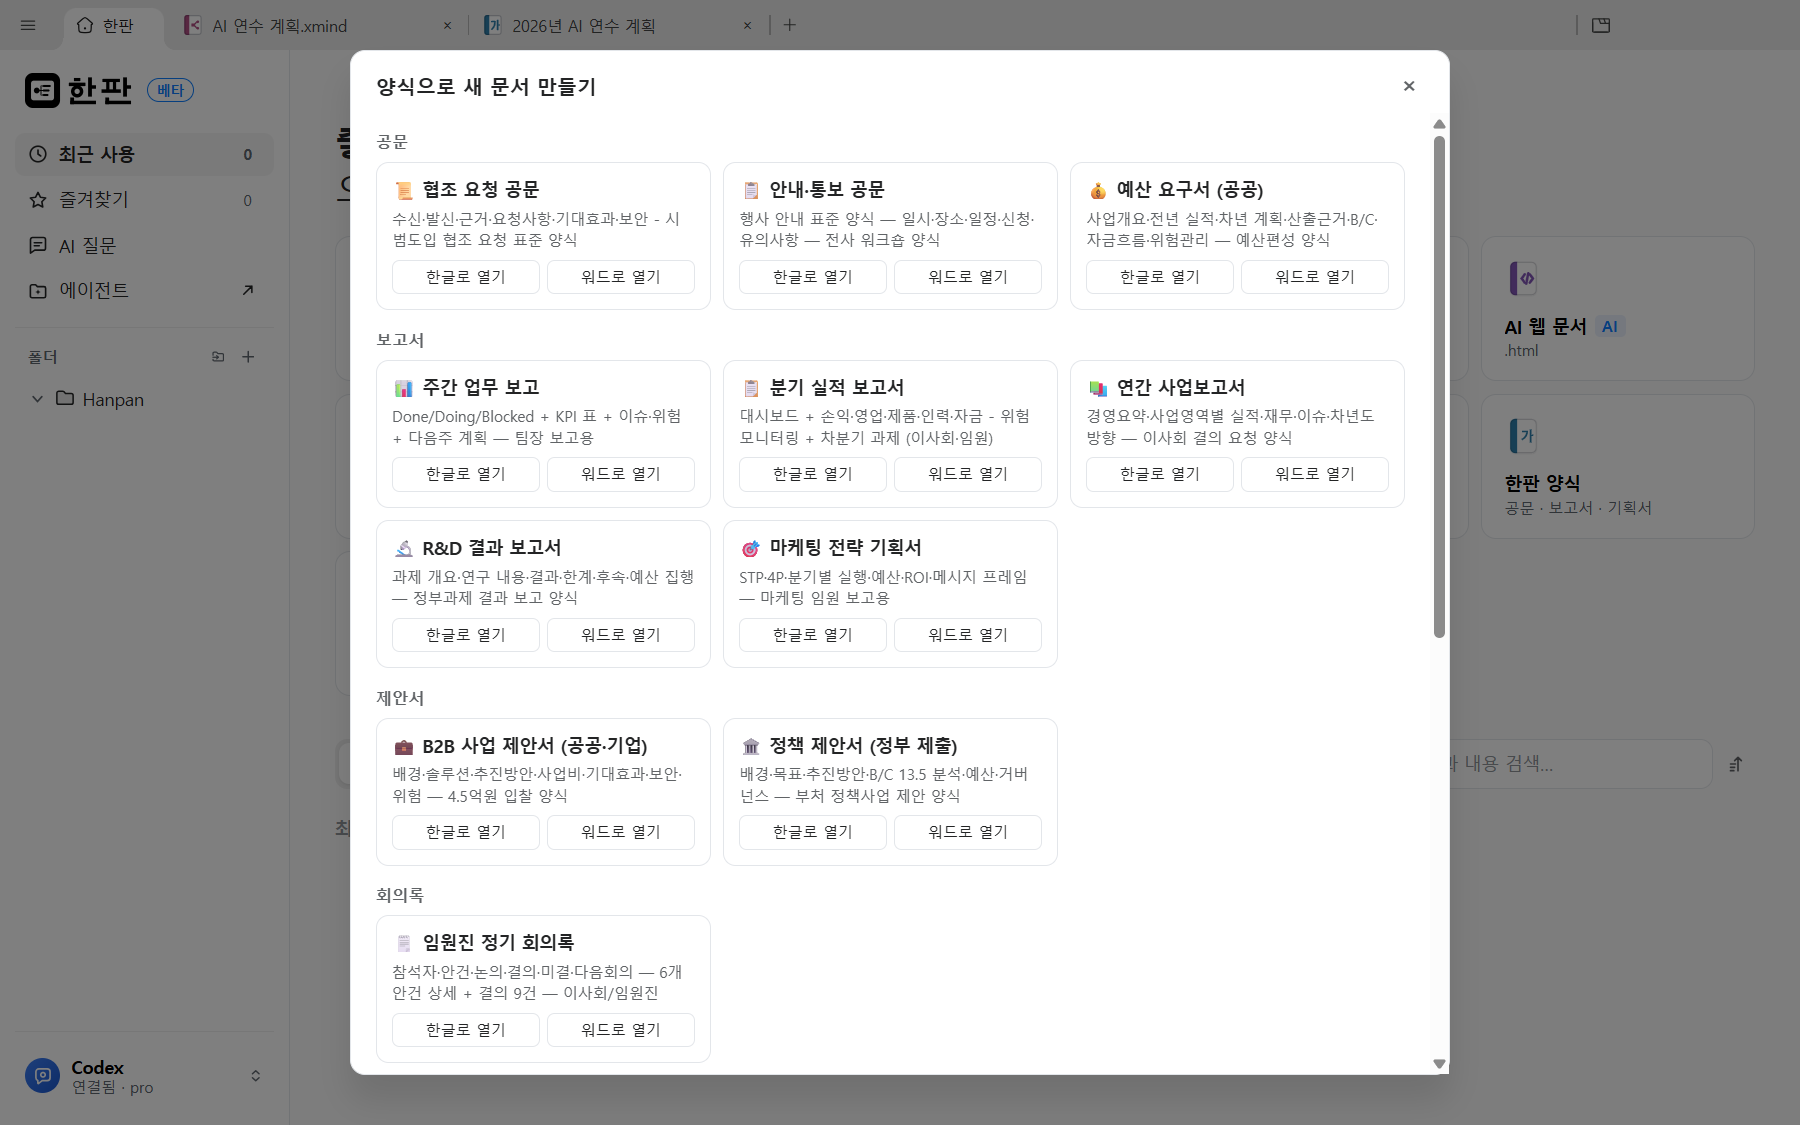
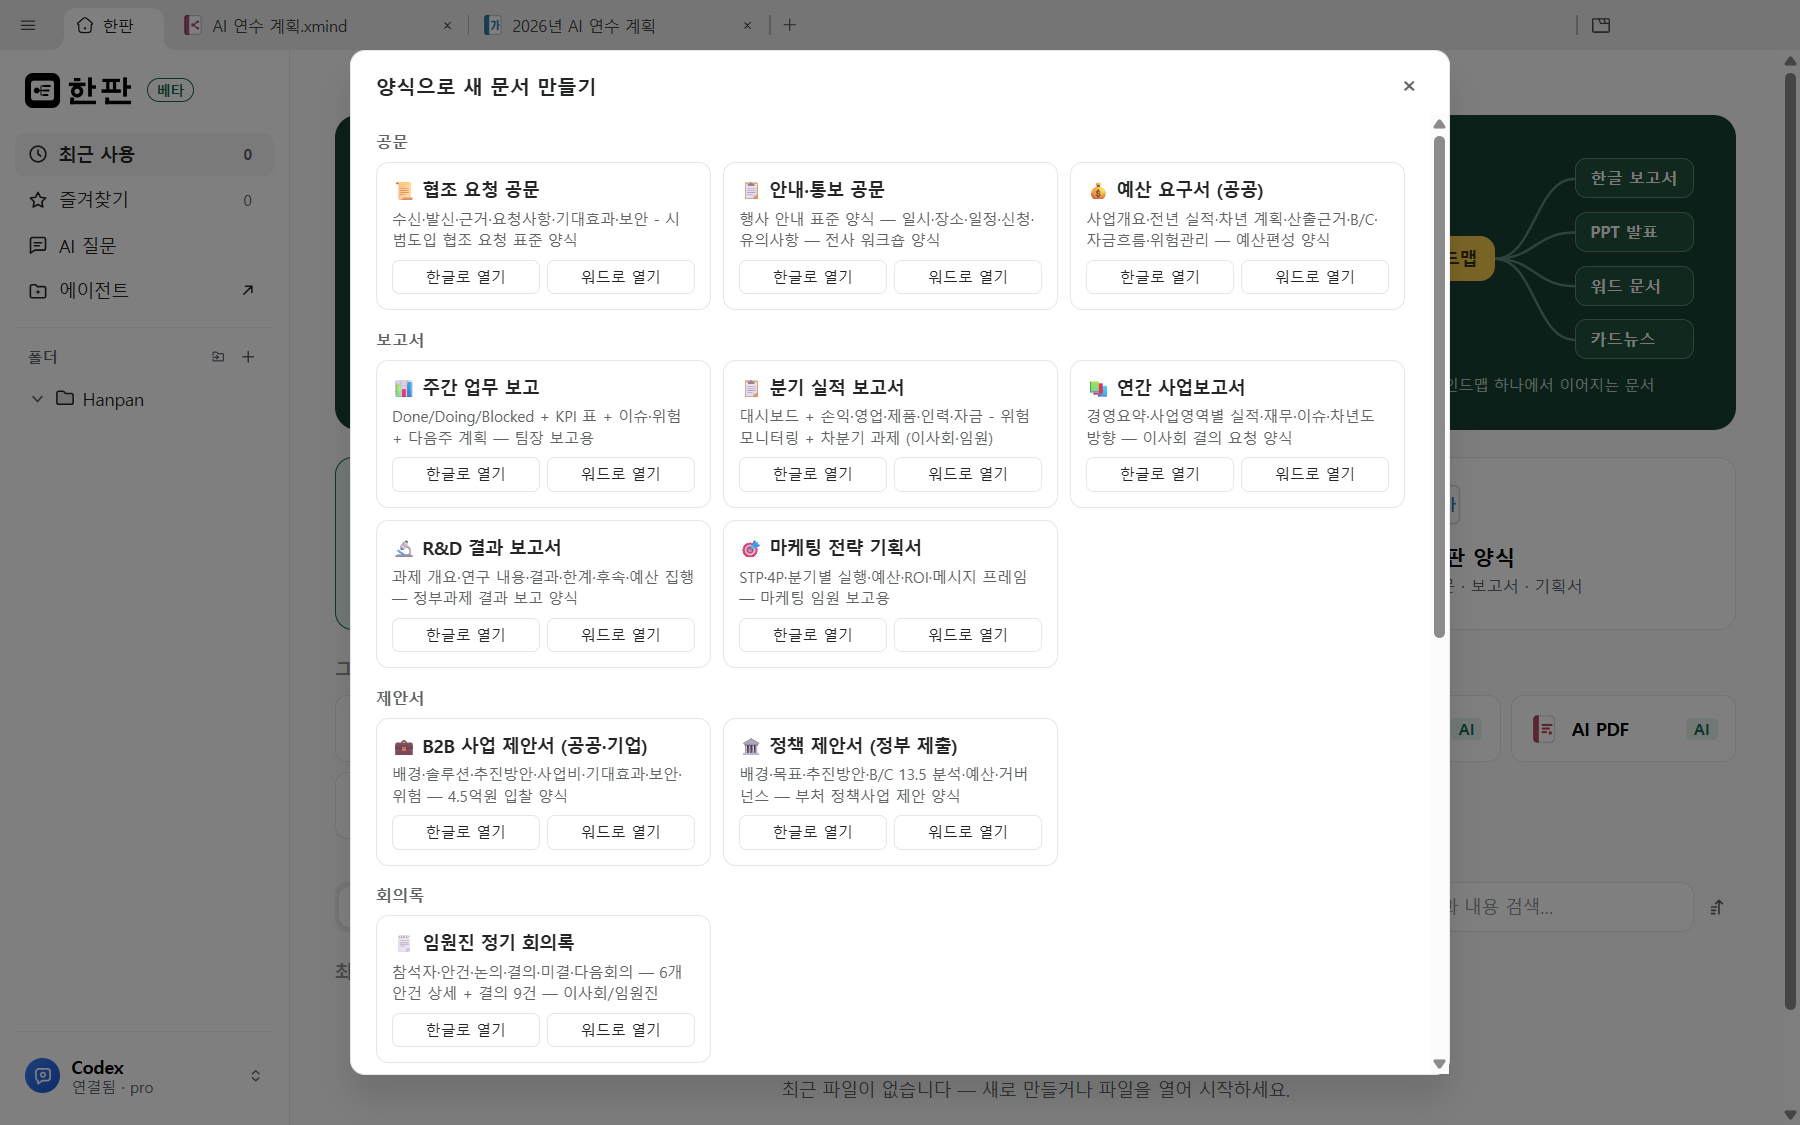
docs(site): Hanpan green, the new Home and the 0.13 updates on the intro page
The intro page says 생각은 마인드맵으로 and calls the map a mind map
throughout, takes Hanpan's board green, shows the new Home and the ten
slide styles, and lists what each version changed. The manual and site
screenshots are retaken with the new wording.

diff --git a/site/index.html b/site/index.html
@@ -3,9 +3,9 @@
 <head>
   <meta charset="utf-8" />
   <meta name="viewport" content="width=device-width, initial-scale=1" />
-  <title>한판 — 생각은 지도로, 문서는 한 판에</title>
+  <title>한판 — 생각은 마인드맵으로, 문서는 한 판에</title>
   <meta name="description" content="한판은 마인드맵을 한글 보고서·PPT·워드로 보내 같은 창에서 이어 쓰는 무료 데스크톱 오피스입니다. AI는 내 PC에 깔린 AI를 먼저 씁니다. Made by TenAI." />
-  <meta property="og:title" content="한판 — 생각은 지도로, 문서는 한 판에" />
+  <meta property="og:title" content="한판 — 생각은 마인드맵으로, 문서는 한 판에" />
   <meta property="og:description" content="마인드맵 하나로 한글 보고서·PPT·워드까지. 내 PC AI 우선. Made by TenAI." />
   <meta property="og:image" content="images/04-hwp-report.png" />
   <link rel="icon" href="images/icon.svg" type="image/svg+xml" />
@@ -14,15 +14,15 @@
   <link href="https://fonts.googleapis.com/css2?family=IBM+Plex+Sans+KR:wght@400;500;700&family=Nanum+Myeongjo:wght@400;700;800&display=swap" rel="stylesheet" />
   <style>
     :root {
-      --board: #1e3a5f;
-      --board-deep: #162c49;
-      --node: #ff8a3d;
+      --board: #183f33;
+      --board-deep: #123027;
+      --node: #f2c94c;
       --paper: #ffffff;
-      --chalk: #dce3ec;
-      --mist: #f3f6fa;
-      --ink: #14202e;
-      --ink-soft: #4a5a6e;
-      --line-on-board: rgb(220 227 236 / 45%);
+      --chalk: #dfe9e3;
+      --mist: #f1f6f3;
+      --ink: #13201a;
+      --ink-soft: #4a5b53;
+      --line-on-board: rgb(223 233 227 / 45%);
       --radius: 14px;
     }
     * { box-sizing: border-box; }
@@ -145,6 +145,13 @@
     }
     .steps h3 { margin: 0 0 8px; font-size: 20px; }
     .steps p { margin: 0; color: var(--ink-soft); }
+    .news { display: grid; gap: 0; padding: 0; margin: 0; list-style: none; border-top: 1px solid var(--chalk); }
+    .news li { display: grid; grid-template-columns: 7em 9em 1fr; gap: 16px; align-items: baseline; padding: 20px 0; border-bottom: 1px solid var(--chalk); }
+    .news-ver { font-weight: 800; font-size: 18px; color: var(--board); }
+    .news-date { color: var(--ink-soft); font-size: 15px; }
+    .news p { margin: 0; }
+    .news-all { margin: 24px 0 0; }
+    @media (max-width: 720px) { .news li { grid-template-columns: auto 1fr; } .news p { grid-column: 1 / -1; } }
     .note { margin-top: 36px; padding: 18px 22px; border-left: 4px solid var(--node); background: var(--paper); color: var(--ink-soft); border-radius: 0 10px 10px 0; }
 
     table { width: 100%; border-collapse: collapse; font-size: 16px; }
@@ -193,6 +200,7 @@
       <a class="brand" href="#"><img src="images/icon.svg" alt="" />한판</a>
       <nav aria-label="페이지 안내">
         <a href="#features">기능</a>
+        <a href="#news">업데이트</a>
         <a href="#install">설치</a>
         <a href="#local-ai">내 PC AI</a>
         <a href="https://github.com/SamulChung/hanpan">GitHub</a>
@@ -204,14 +212,14 @@
     <section class="hero" aria-labelledby="hero-title">
       <div class="wrap">
         <div>
-          <h1 id="hero-title">생각은 지도로,<br />문서는 한 판에.</h1>
-          <p class="lead">마인드맵으로 정리한 생각을 한글 보고서·PPT·워드로 보내 같은 창에서 이어 씁니다. 지도를 고치면 문서도, 문서를 고치면 지도도 맞춰집니다. AI는 내 PC에 깔린 AI를 먼저 씁니다.</p>
+          <h1 id="hero-title">생각은 마인드맵으로,<br />문서는 한 판에.</h1>
+          <p class="lead">마인드맵에 정리한 생각을 버튼 하나로 한글 보고서·PPT·워드로 보내 같은 창에서 이어 씁니다. 한쪽을 고치면 다른 쪽도 맞춰집니다. AI는 내 PC에 깔린 AI를 먼저 씁니다.</p>
           <div class="actions">
             <a class="btn download-link" href="https://github.com/SamulChung/hanpan/releases/latest">
               <svg viewBox="0 0 20 20" fill="none" stroke="currentColor" stroke-width="2" stroke-linecap="round" stroke-linejoin="round" aria-hidden="true"><path d="M10 3v10M5.5 8.5 10 13l4.5-4.5M4 16.5h12" /></svg>
               Windows용 내려받기
             </a>
-            <span class="meta">무료 · Windows 10/11 (64비트) · <span class="version">v0.12.8</span> · <a href="https://github.com/SamulChung/hanpan/releases">모든 버전</a></span>
+            <span class="meta">무료 · Windows 10/11 (64비트) · <span class="version">v0.13.2</span> · <a href="https://github.com/SamulChung/hanpan/releases">모든 버전</a></span>
           </div>
         </div>
 
@@ -254,12 +262,25 @@
 
         <article class="feature">
           <div class="copy">
+            <span class="tag">홈 화면</span>
+            <h3>주제만 적으면 마인드맵부터 시작</h3>
+            <p>홈 맨 위 시작판에 정리할 주제를 적고 <strong>마인드맵 만들기</strong>를 누르면, 그 주제를 가운데 둔 새 마인드맵이 바로 열립니다.</p>
+            <ul>
+              <li>카드도 일의 순서대로: 마인드맵 → AI 한글 → AI 파워포인트 → 한판 양식</li>
+              <li>워드, 엑셀, 디자인, PDF 도구는 아래 한 줄에 모아서</li>
+            </ul>
+          </div>
+          <div class="shot"><img src="images/01-home.png" alt="시작판과 마인드맵 중심 카드가 있는 한판 홈 화면" loading="lazy" width="1800" height="1125" /></div>
+        </article>
+
+        <article class="feature">
+          <div class="copy">
             <span class="tag">마인드맵 → 문서</span>
-            <h3>지도 하나로 한글 보고서, PPT, 워드까지</h3>
+            <h3>마인드맵 하나로 한글 보고서, PPT, 워드까지</h3>
             <p>도구 줄의 보내기를 누르면 같은 창의 새 탭에 문서가 열립니다.</p>
             <ul>
               <li>개조식 보고서(□ ○ ―), 장 보고서(Ⅰ.), 공문 번호(1. 가. 1))</li>
-              <li>지도에 적은 말 그대로, 또는 AI가 개조식 문장으로 살 붙이기</li>
+              <li>마인드맵에 적은 말 그대로, 또는 AI가 개조식 문장으로 살 붙이기</li>
               <li>큰 가지 하나가 슬라이드 한 장, 메모는 발표자 메모로</li>
             </ul>
           </div>
@@ -268,11 +289,25 @@
 
         <article class="feature">
           <div class="copy">
-            <span class="tag">양방향 맞추기</span>
-            <h3>지도를 고치면 문서도, 문서를 고치면 지도도</h3>
-            <p>보낸 뒤에도 지도와 한글 문서는 연결되어 있습니다. 바뀐 곳을 미리 보여 주고, 양쪽에서 다르게 고친 곳은 직접 고릅니다. 문서에서 쓴 본문은 지켜집니다.</p>
+            <span class="tag">PPT 슬라이드 스타일</span>
+            <h3>발표 자료는 10가지 스타일 중에서 골라</h3>
+            <p>PPT로 보낼 때 스타일을 고르면 표지, 목차, 본문, 마무리 슬라이드까지 그 스타일로 꾸며집니다.</p>
+            <ul>
+              <li>스티브 잡스, 맥킨지, 토스, BCG, TED, 구글 머티리얼, 노션, 에어비앤비, 캔바 모던, 스타트업 피치덱</li>
+              <li>가지에 든 내용에 맞춰 카드, 매트릭스, 타임라인, 큰 숫자로 배치</li>
+              <li>만든 뒤에도 글자·색·도형을 PPT 탭에서 그대로 고칠 수 있음</li>
+            </ul>
           </div>
-          <div class="shot"><img src="images/05-sync.png" alt="지도와 연결된 문서에서 바뀐 곳을 보여 주는 맞추기 창" loading="lazy" width="1800" height="1075" /></div>
+          <div class="shot"><img src="images/09-slide-styles.png" alt="같은 마인드맵을 10가지 슬라이드 스타일로 만든 본문 슬라이드" loading="lazy" width="1792" height="424" /></div>
+        </article>
+
+        <article class="feature">
+          <div class="copy">
+            <span class="tag">양방향 맞추기</span>
+            <h3>마인드맵을 고치면 문서도, 문서를 고치면 마인드맵도</h3>
+            <p>보낸 뒤에도 마인드맵과 한글 문서는 연결되어 있습니다. 바뀐 곳을 미리 보여 주고, 양쪽에서 다르게 고친 곳은 직접 고릅니다. 문서에서 쓴 본문은 지켜집니다.</p>
+          </div>
+          <div class="shot"><img src="images/05-sync.png" alt="마인드맵과 연결된 문서에서 바뀐 곳을 보여 주는 맞추기 창" loading="lazy" width="1800" height="1075" /></div>
         </article>
 
         <article class="feature">
@@ -301,6 +336,36 @@
       </div>
     </section>
 
+    <section id="news" aria-labelledby="news-title">
+      <div class="wrap">
+        <h2 id="news-title">업데이트 소식</h2>
+        <p class="intro">설치한 한판은 새 버전이 나오면 알려 주고 스스로 업데이트합니다.</p>
+        <ol class="news">
+          <li>
+            <span class="news-ver">0.13.2</span>
+            <span class="news-date">2026. 10. 30.</span>
+            <p>홈 화면을 마인드맵 중심으로 새로 짰습니다. 시작판에 주제를 적으면 새 마인드맵이 열리고, 카드는 마인드맵·AI 한글·AI 파워포인트·한판 양식 순서입니다. 한판만의 칠판 초록 디자인을 입혔고, 앱 안의 '지도'라는 말을 모두 '마인드맵'으로 바꿨습니다.</p>
+          </li>
+          <li>
+            <span class="news-ver">0.13.1</span>
+            <span class="news-date">2026. 10. 30.</span>
+            <p>슬라이드 스타일 10가지를 새로 디자인했습니다. 한판이 만든 한글 문서에서 표 칸의 글자가 겹치던 문제와 그림이 글을 가리던 문제를 고쳤습니다.</p>
+          </li>
+          <li>
+            <span class="news-ver">0.13.0</span>
+            <span class="news-date">2026. 10. 30.</span>
+            <p>PPT로 보낼 때 슬라이드 스타일 10가지 가운데 하나를 고를 수 있습니다. 의견 보내기가 TenAI 팀 메일(ten@tenai.kr)로 바뀌었습니다.</p>
+          </li>
+          <li>
+            <span class="news-ver">0.12.8</span>
+            <span class="news-date">2026. 10. 30.</span>
+            <p>첫 공개 버전입니다. 마인드맵을 한글·PPT·워드로 보내기, 양방향 맞추기, 한판 양식 19가지, 한판 도구, 디자인 보드, 내 PC AI 우선.</p>
+          </li>
+        </ol>
+        <p class="news-all"><a href="https://github.com/SamulChung/hanpan/releases">모든 버전과 바뀐 점 보기</a></p>
+      </div>
+    </section>
+
     <section id="install" class="band" aria-labelledby="install-title">
       <div class="wrap">
         <h2 id="install-title">설치하기</h2>
@@ -308,7 +373,7 @@
         <ol class="steps">
           <li>
             <h3>내려받기</h3>
-            <p><a class="download-link" href="https://github.com/SamulChung/hanpan/releases/latest"><span class="file-name">Hanpan-Setup-0.12.8.exe</span></a>를 내려받아 실행합니다.</p>
+            <p><a class="download-link" href="https://github.com/SamulChung/hanpan/releases/latest"><span class="file-name">Hanpan-Setup-0.13.2.exe</span></a>를 내려받아 실행합니다.</p>
           </li>
           <li>
             <h3>Windows 경고 넘기기</h3>
